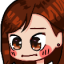
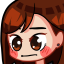
add december POUT and TIMID

diff --git a/assets/anim.december.scss b/assets/anim.december.scss
@@ -247,3 +247,55 @@
     $can-animate-forever: true,
     $end-on-last-frame: true
 );
+
+
+@include sprite-animation(
+    $file-name: SMUG,
+    $frame-count: 7,
+    $sprite-width: 238px,
+    $sprite-height: 32px,
+    $animation-duration: 1s,
+    $iteration-count: 3,
+    $can-animate-forever: true,
+    $extra-animation: true,
+    $extra-animation-duration: 333ms,
+    $extra-animation-iteration-count: 9
+) {
+    0% {
+        transform: translate(0px,0px);
+    }
+    25% {
+        transform: translate(0px,0.50px);
+        animation-timing-function: ease-in;
+    }
+    37% {
+        transform: translate(0px,0px);
+    }
+    55% {
+        transform: translate(0px,-2px);
+    }
+    60% {
+        transform: translate(0px,-1.5px);
+        animation-timing-function: ease;
+    }
+    100% {
+        transform: translate(0px,0px);
+    }
+}
+
+@include sprite-animation(
+    $file-name: TIMID,
+    $frame-count: 12,
+    $sprite-width: 384px,
+    $sprite-height: 32px,
+    $animation-duration: 1s,
+    $iteration-count: 1,
+    $end-on-last-frame: true,
+    $can-animate-forever: false,
+    $extra-animation: true,
+    $extra-animation-duration: 6s,
+    $extra-animation-iteration-count: 1
+) {
+    0% {background-position-y: 0px; }
+    10% {background-position-y: 20px; }
+}

diff --git a/assets/anim.scss b/assets/anim.scss
@@ -313,11 +313,11 @@ $spritesDir : '/assets/emotes/emoticons-animated/';
 
     @keyframes #{$file-name}-anim {
         0% {
-            background-position: 0;
+            background-position-x: 0;
         }
 
         100% {
-            background-position: -#{$sprite-width};
+            background-position-x: -#{$sprite-width};
         }
     }
 
@@ -887,4 +887,21 @@ $spritesDir : '/assets/emotes/emoticons-animated/';
     100% {
         transform: translate(0px,0px);
     }
+}
+
+@include sprite-animation(
+    $file-name: TIMID,
+    $frame-count: 12,
+    $sprite-width: 384px,
+    $sprite-height: 32px,
+    $animation-duration: 1s,
+    $iteration-count: 1,
+    $end-on-last-frame: true,
+    $can-animate-forever: false,
+    $extra-animation: true,
+    $extra-animation-duration: 6s,
+    $extra-animation-iteration-count: 1
+) {
+    0% {background-position-y: 0px; }
+    10% {background-position-y: 20px; }
 }
